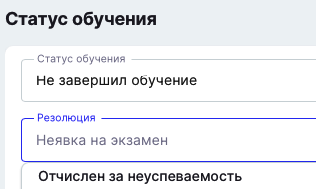
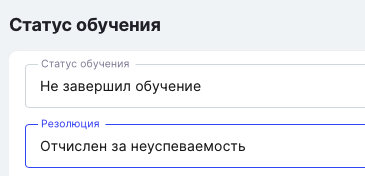
Update 2 files
- slushateli/README/zavershenie-obucheniya.md
   - slushateli/README/zavershenie-obucheniya-2.png

Changed region(s): [[0.057, 0.5966, 1.0, 1.0], [0.057, 0.2841, 1.0, 0.5398], [0.0, 0.0568, 0.5127, 0.1989]]

diff --git a/slushateli/README/zavershenie-obucheniya.md b/slushateli/README/zavershenie-obucheniya.md
@@ -36,7 +36,7 @@ order: 1.5
 
 Для статуса "Не завершил обучение» доступна резолюция "Отчислен за неуспеваемость».
 
-![](./zavershenie-obucheniya-2.png){width=316px height=189px}
+![](./zavershenie-obucheniya-2.png){width=365px height=176px}
 
 [/tab]
 
